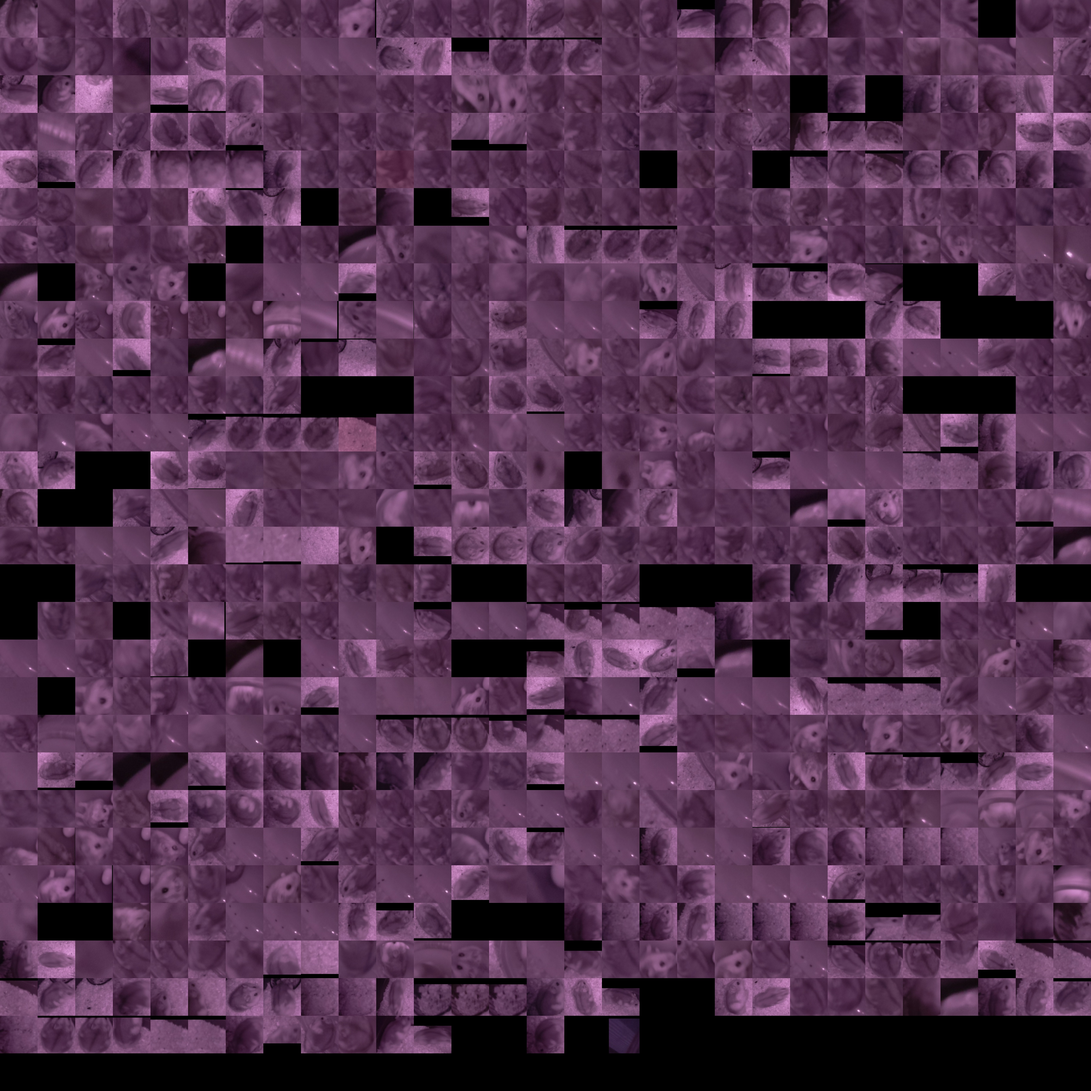
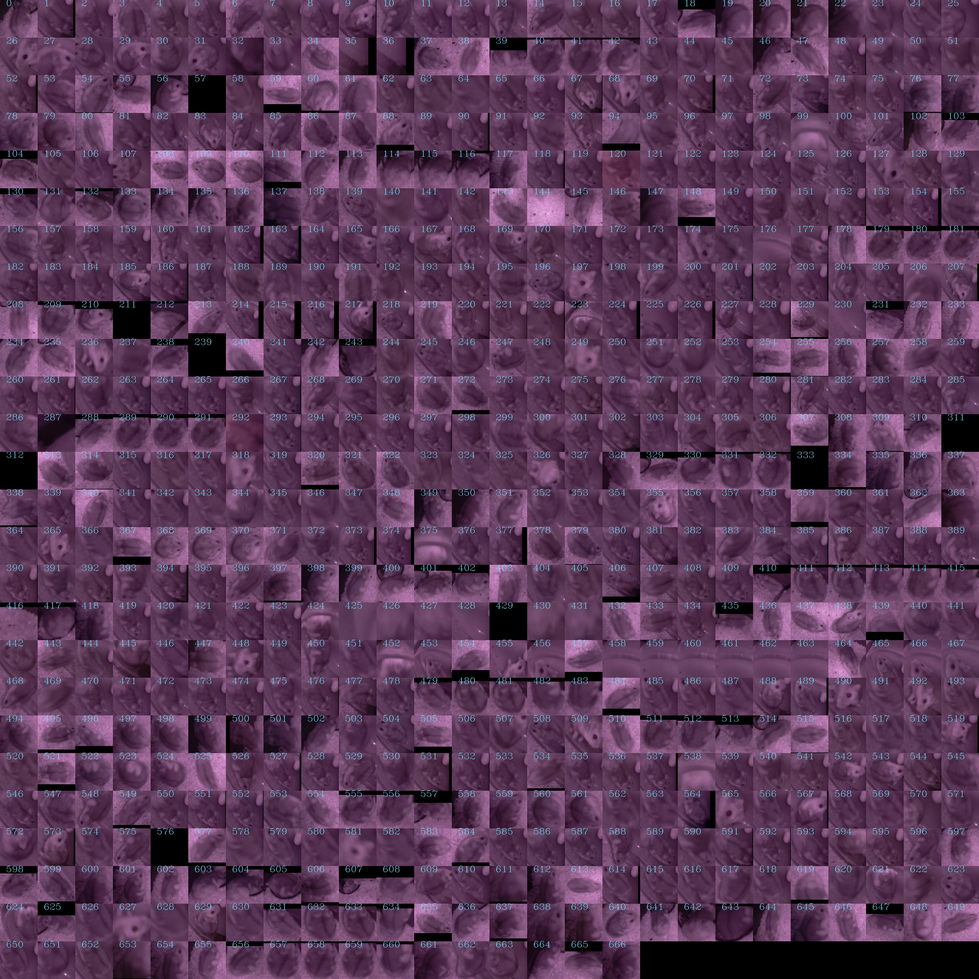
Updated documentation, readme & figures.

diff --git a/tools/extract.py b/tools/extract.py
@@ -1,14 +1,14 @@
-import cv2
 import imutils
 import glob
 import numpy as np
+import cv2
 from tools.convert import *
 from tools.time import timestr_to_delta
-import datetime
 import matplotlib.pyplot as plt
+import datetime
 
 
-def extract_subject(im, bg, thresh=0.075, mode='rgb', output_size=(128, 128), pad=200, buf=10):
+def extract_subject(im, bg, thresh=0.05, mode='rgb', output_size=(128, 128), pad=200, buf=10):
     """
     Extracts the subject from an rgb image and associated background.
     :param im: An image.
@@ -61,7 +61,15 @@ def extract_subject(im, bg, thresh=0.075, mode='rgb', output_size=(128, 128), pa
     return out
 
 
-def get_images_and_backgrounds(ext='.jpg', folder='', date=None):
+def get_images_and_backgrounds(ext='.jpg', folder='', date=datetime.date.today()):
+    """
+    Gets a list of all normal images and all images with the suffix '_BG'.
+
+    :param ext: The image extension. Default = .jpg.
+    :param folder: The folder name. Default is current working dir.
+    :param date: The date. If not None, filters only for that date.
+    :return: A list of image filenames, and background filenames.
+    """
     l = glob.glob(folder + '*' + ext)
     l = [i for i in l if '_D.jpg' not in i]
     bgs = [i for i in l if '_BG.jpg' in i]
@@ -73,24 +81,15 @@ def get_images_and_backgrounds(ext='.jpg', folder='', date=None):
 
 
 def get_background_for_im(im, bgs):
+    """
+    Finds the best (most recent) background for an image.
+    :param im: An image filename.
+    :param bgs: A list of background filenames.
+    :return: A background filename from bgs.
+    """
     imt = im.split('.')[0].replace('_', ':')
     imtd = timestr_to_delta(imt)
     bg_times = [timestr_to_delta(bg.split('_BG.')[0].replace('_', ':')) for bg in bgs
                 if (imtd - timestr_to_delta(bg.split('_BG.')[0].replace('_', ':'))).total_seconds() >= 0]
     bg = str(np.max(bg_times)).replace(':', '_') + '_BG.jpg'
     return bg
-
-
-if __name__ == '__main__':
-    import os
-    os.chdir(r'C:\Users\Kristof\Desktop\testPi\photos')
-    ims, bgs = get_images_and_backgrounds()
-    ax = int(round(np.sqrt(len(ims))))+1
-    out = np.zeros((ax*128, ax*128, 3)).astype('uint8')
-    for i, im in enumerate(ims):
-        ind = np.unravel_index(i, (ax, ax))
-        bg = get_background_for_im(im, bgs)
-        s = extract_subject(im, bg, pad=500)
-        if s is not None:
-            out[128*ind[0]:128*ind[0]+128, 128*ind[1]:128*ind[1]+128, :] = s
-    plt.imshow(out)

diff --git a/output/reporting.py b/output/reporting.py
@@ -1,4 +1,3 @@
-import sys
 import requests
 import numpy as np
 import datetime
@@ -54,18 +53,21 @@ def send_alert(c1, c2):
 
 def mosaic_for_date(date=datetime.date.today(), folder=''):
     ims, bgs = get_images_and_backgrounds(date=date, folder=folder)
-    ax = int(round(np.sqrt(len(ims))))+1
-    out = np.zeros((ax*128, ax*128, 3)).astype('uint8')
+    ax1 = int(np.ceil(np.sqrt(len(ims))))
+    ax2 = int(np.ceil(np.sqrt(len(ims))))
+    out = np.zeros((ax2*128, ax1*128, 3)).astype('uint8')
 
     for i, im in enumerate(ims):
         msg = "item {} of {}".format(i+1, len(ims))
         print(msg)
 
-        ind = np.unravel_index(i, (ax, ax))
+        ind = np.unravel_index(i, (ax1, ax2))
         bg = get_background_for_im(im, bgs)
         s = extract_subject(im, bg, pad=500)
         if s is not None:
             out[128*ind[0]:128*ind[0]+128, 128*ind[1]:128*ind[1]+128, :] = s
+        out = cv2.putText(out, str(i), (128*ind[1]+20, 128*ind[0]+20),
+                          fontFace = cv2.FONT_HERSHEY_COMPLEX, fontScale = 1, color = (250,225,100))
     return out
 
 
@@ -90,8 +92,6 @@ def log_for_date(date=datetime.date.today(), freq='30min', filename='log.csv'):
 def plot_for_date(date=datetime.date.today()):
     d = log_for_date(date=date)
     d['time'] = d.index
-    time_min = np.min(d.index)
-    time_max = np.max(d.index)
 
     fig, ax = plt.subplots(1,2, figsize = (14,6), sharey=True)
     hues=['orange', 'blue']
@@ -118,4 +118,4 @@ def plot_for_date(date=datetime.date.today()):
 if __name__ == '__main__':
     os.chdir(r'C:\Users\Kristof\Desktop\testPi\photos')
     o = mosaic_for_date()
-    cv2.imwrite('TESTMOSAIC.jpg', o)
+    cv2.imwrite('mosaic.jpg', o)

diff --git a/tools/convert.py b/tools/convert.py
@@ -2,22 +2,52 @@ import cv2
 
 
 def bgr2gray(im):
+    """
+    BGR to grayscale conversion (shorthand).
+    :param im: A 3-channel (BGR) image.
+    :return: A grayscale image.
+    """
     return cv2.cvtColor(im, cv2.COLOR_BGR2GRAY)
 
 
 def rgb2gray(im):
+    """
+    RGB to grayscale conversion (shorthand).
+    :param im: A 3-channel (RGB) image.
+    :return: A grayscale image.
+    """
     return cv2.cvtColor(im, cv2.COLOR_RGB2GRAY)
 
 
 def bgr2rgb(im):
+    """
+    BGR to RGB conversion (shorthand).
+    :param im: A 3-channel (BGR) image.
+    :return: A 3-channel (RGB) image.
+    """
     return cv2.cvtColor(im, cv2.COLOR_BGR2RGB)
 
 
 def rgb2bgr(im):
+    """
+    RGB to BGR conversion (shorthand).
+    :param im: A 3-channel (RGB) image.
+    :return: A 3-channel (BGR) image.
+    """
     return cv2.cvtColor(im, cv2.COLOR_RGB2BR)
 
 
 def resize_rectangle(x, y, w, h, dims_in, dims_out):
+    """
+    Resizes a rectangle for dims_in to occupy the same relative position in a matrix of dims_out.
+    :param x: An int. X0.
+    :param y: An int. Y0.
+    :param w: Rectangle width.
+    :param h: Rectangle height.
+    :param dims_in: Dimensions of image matrix for which the rectangle was initially computed.
+    :param dims_out: Dimensions of output matrix for which the rectangle should fit.
+    :return: Recalculated x, y, w, h values.
+    """
     xr = dims_out[0]/dims_in[0]
     yr = dims_out[1]/dims_in[1]
 

diff --git a/camera_motion_log.py b/camera_motion_log.py
@@ -4,20 +4,18 @@ this code senses motion using only the camera, assuming the motion sensor was ac
 
 import RPi.GPIO as GPIO
 import adafruit_dht
-import time, os
-import numpy as np
+import time
 import imutils
-import cv2
 from sensors.sense import sense_temp_hum, sense_motion
-from tools.reporting import *
+from output.reporting import *
 from tools.time import current_time, timestr_to_delta
-from sensors.camera import get_frame, compare_with_cache, write_difference_figure, compare_frames
+from sensors.camera import get_frame, compare_with_cache, compare_frames
 
 # globals
 CACHE_NUM = 3  # number of activations to cache, minimum amount to calculate activity from
 DELTA_THRESH = 0.01  # lower threshold - minimum num of pixels that have to change
 DELTA_THRESH2 = 0.35  # upper thresh - because if this is very high we've moved the camera!
-ALERT_INTERVAL = 120
+ALERT_INTERVAL = 600
 BG_INTERVAL = 120
 
 print("Initalizing sensors...")

diff --git a/motion_log.py b/motion_log.py
@@ -6,9 +6,9 @@ import adafruit_dht
 import RPi.GPIO as GPIO
 import time
 from sensors.sense import sense_temp_hum, sense_motion
-from tools.reporting import *
+from output.reporting import *
 from tools.time import current_time, is_active, timestr_to_delta
-from sensors.camera import take_photo, get_frame
+from sensors.camera import take_photo
 
 # globals
 ACTIVITY_NUM = 3  # number of activations to cache, minimum amount to caclulate frequency from

diff --git a/README.md b/README.md
@@ -3,7 +3,10 @@
 This is a small project for developing a simple motion-activated activity tracker. The idea is to produce different types of output depending on the type (particularly frequency) of motion that is detected. Will also double as a security camera later on. In time I'll add some nice-looking reports.
 
 ## Method
-The camera refreshes the background every two minutes. When the passive infrared (PIR) motion sensor detects motion, the camera starts acquiring images every second. If these images differ from the background by more than a threshold value, an alert is sent using the APIs which are linked in the keys.txt file.
+- When the passive infrared (PIR) motion sensor detects motion, the camera starts acquiring images every second. If these images differ from the background by more than a threshold value, an alert is sent using the APIs which are linked in the keys.txt file, and the camera continues to acquire once per second until motion stops.
+- When there is no motion, we refresh the background every two minutes to correct for differences in light intensity.
+- For identifying where the subject is located in the image, we perform background subtraction, followed by a thresholding step. We can then identify the largest 'blob' in the image, which should be our subject, and extract this using OpenCV's bounding rectangle tool.
+- For consistency, we also ensure that output subjects are all resampled to a size of 128x128, with zero-padding.
 
  ![Figure_1](/Figure_1.png)
 
@@ -12,9 +15,14 @@ tools.reporting features several logging tools. For instance, using tools.report
 
 ![dateplot](/2021-08-01_plot.png)
 
+Here, we can clearly see that the subject hamster's peak activity times are between 1AM And 2AM. Although temperature drops over time, the change is very minor. Humidity also stays relatively stable. Probably in the winter temperature will vary more overnight.
+
 We can also produce a mosaic for quick inspection of photos taken, which allows for a quick evaluation of whether the quality of subject detection is okay:
 
 ![mosaic](/mosaic.jpg)
+
+- There are a few images where no subject could be identified at all, but these are limited. Since we can see the index of these images in the mosaic, we can inspect these and see what went wrong.
+- There are also a few images where the subject was not fully segmented, or where for example the hamster wheel was (incorrectly) identified as the subject. Evidently there is still some room for improvement!
 
 ## Materials
 ### Necessary:
